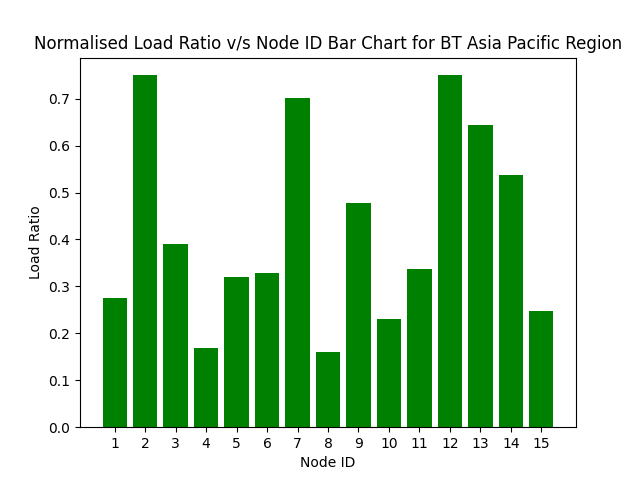
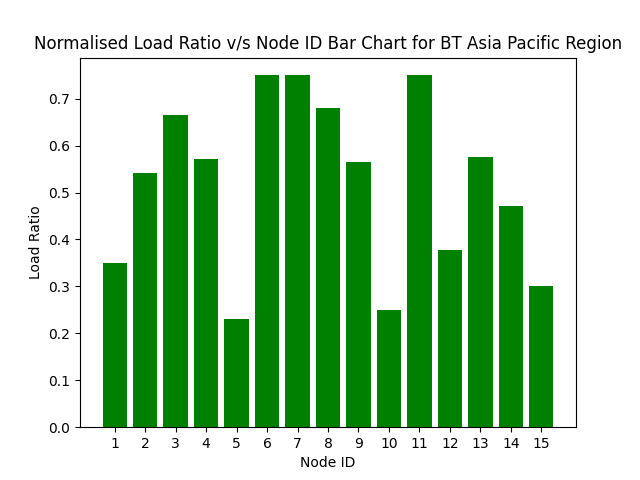
Fine tune & modularise

diff --git a/NodesScript.py b/NodesScript.py
@@ -1,114 +1,36 @@
 """ 
-1) Find Latency (Delay) for each Node. Latency = 2 * distance / speed.
-2) Plot Graph in ascending order.
-3) Clustering: Based on four Quadrants. Assume Midpoint as Origin.
+    Flow of execution:
+    1. Get region details such as nodes, midpoint and region name from Regions.py
+    2. doRegion() function:
+        Plot Latency v/s Node ID Bar Chart
+        Plot Ascending Latency v/s Node ID Bar Chart
+        Plot Latency v/s Quadrant Chart
+        Plot Latency Ratio v/s Node ID Bar Chart
+        Plot Normalised Latency Ratio v/s Node ID Bar Chart
+    3. doLoad() function:
+        Plot Load v/s Node ID Bar Chart
+        Plot Load Ratio v/s Node ID Bar Chart
+        Plot Normalised Load Ratio v/s Node ID Bar Chart
+    4. plotLatencyAndLoad() function:
+        Plot Multi Bar Chart for Latency and Load
+
+    TODO:
+    1. Shortest path from midpoint to all nodes: Apply Bellman Ford algorithm.
+    2. Maximum flow (load) in the network region: Apply Ford Fulkerson Algorithm.
 """
 
 
-import random
 import matplotlib.pyplot as plt
-import math
 import numpy as np
 import os
 
 # Custom Modules
 import Regions
+from Metrics import *
 
 
 # GLOBAL VARIABLES
 GRAPH_NO = 1  # For naming the Graphs
-
-
-def getLowerAndUpper():
-    """Returns the lower and upper limit of the load in mbps.
-
-    Returns:
-        lower (int): Lower limit of the load. (mbps)
-        upper (int): Upper limit of the load. (mbps)
-    """
-
-    lower = random.randint(10, 60)
-    upper = random.randint(100, 400)
-
-    return lower, upper
-
-
-def getQuadrant(long, lat, mid_long, mid_lat):
-    """Returns the quadrant in which the point lies.
-
-    Args:
-        long (float): Longitude of the point.
-        lat (float): Latitude of the point.
-        mid_long (float): Longitude of the midpoint.
-        mid_lat (float): Latitude of the midpoint.
-
-    Returns:
-        quadrant (int): Quadrant in which the point lies.
-    """
-
-    # Origin
-    X = mid_long
-    Y = mid_lat
-
-    # Current Point
-    x = long
-    y = lat
-
-    quadrant = None
-    if x > X and y > Y:
-        quadrant = 1
-    elif x < X and y > Y:
-        quadrant = 2
-    elif x < X and y < Y:
-        quadrant = 3
-    elif x > X and y < Y:
-        quadrant = 4
-
-    return quadrant
-
-
-def getLatency(long, lat, mid_long, mid_lat):
-    """Returns the latency between two points in ms.
-    Formula: Latency = 2*distance / speed
-
-    Args:
-        long (float): Longitude of the first point.
-        lat (float): Latitude of the first point.
-        mid_long (float): Longitude of the second point.
-        mid_lat (float): Latitude of the second point.
-
-    Returns:
-        time (float): Latency between the two points in ms.
-    """
-
-    long_km = long * 111.32 * math.cos(math.radians(lat))
-    lat_km = lat * 110.574
-
-    mid_long_km = mid_long * 111.32 * math.cos(math.radians(mid_lat))
-    mid_lat_km = mid_lat * 110.574
-
-    distance = math.sqrt((long_km - mid_long_km)**2 +
-                         (lat_km - mid_lat_km)**2)     # in km
-
-    speed = 3e5  # in km/s
-
-    time = (2 * distance / speed) * 1000  # in ms
-
-    return time
-
-
-def getLoad(lower, upper):
-    """Returns the load between two points in mbps.
-
-    Args:
-        lower (int): Lower limit of the load. (mbps)
-        upper (int): Upper limit of the load. (mbps)
-
-    Returns:
-        load (int): Load between the two points in mbps.
-    """
-
-    return random.randint(lower, upper)
 
 
 def plotGraph(x, y, x_name, y_name, color, title, region_name):
@@ -234,7 +156,7 @@ def doRegion(nodes, midpoint, region_name):
     node_id_list = [nodes[name]["Node ID"] for name in nodes]
     latency_list = [nodes[name]["Latency"] for name in nodes]
 
-    # Normalizing Latency (0 to 1)
+    # Scaling Latency (0 to 1)
     max_latency = max(latency_list)
     latency_ratio_list = list(map(lambda x: x/max_latency, latency_list))
 
@@ -243,7 +165,7 @@ def doRegion(nodes, midpoint, region_name):
               color="Purple", title=f"Latency Ratio v/s Node ID for {region_name} Region",
               region_name=region_name)
 
-    """ Distributing Latency """
+    """ Distributing Latency (Normalizing) """
 
     threshold = 0.75
     print(f"Threshold Value for Latency: {threshold}")
@@ -260,7 +182,7 @@ def doRegion(nodes, midpoint, region_name):
             least_ratio = min(latency_ratio_list)
             least_ratio_index = latency_ratio_list.index(least_ratio)
 
-            if least_ratio + difference <= 0.75:    # Distributing Load only if Lower Bar after addition is < threshold
+            if least_ratio + difference <= 0.75:  # Distributing Load only if Lower Bar after addition is < threshold
                 ratio -= difference
                 least_ratio += difference
             else:
@@ -322,7 +244,7 @@ def doLoad(nodes, midpoint, region_name):
               color="orange", title=f"Load Ratio v/s Node Name Bar Chart for {region_name} Region",
               region_name=region_name)
 
-    """ Distributing Load """
+    """ Distributing Load (Normalizing) """
 
     threshold = 0.75
     print(f"Threshold Value for Load: {threshold}")

diff --git a/Metrics.py b/Metrics.py
@@ -1,0 +1,106 @@
+"""
+    This file contains the functions to calculate the metrics such as latency, load and
+    the quadrant in which the point lies.
+    
+    Functions included:
+        getLowerAndUpper()
+        getQuadrant(long, lat, mid_long, mid_lat)
+        getLatency(long, lat, mid_long, mid_lat)
+        getLoad(lower, upper)
+"""
+
+
+import random
+import math
+
+
+def getLowerAndUpper():
+    """Returns the lower and upper limit of the load in mbps.
+
+    Returns:
+        lower (int): Lower limit of the load. (mbps)
+        upper (int): Upper limit of the load. (mbps)
+    """
+
+    lower = random.randint(10, 60)
+    upper = random.randint(100, 400)
+
+    return lower, upper
+
+
+def getQuadrant(long, lat, mid_long, mid_lat):
+    """Returns the quadrant in which the point lies.
+
+    Args:
+        long (float): Longitude of the point.
+        lat (float): Latitude of the point.
+        mid_long (float): Longitude of the midpoint.
+        mid_lat (float): Latitude of the midpoint.
+
+    Returns:
+        quadrant (int): Quadrant in which the point lies.
+    """
+
+    # Origin
+    X = mid_long
+    Y = mid_lat
+
+    # Current Point
+    x = long
+    y = lat
+
+    quadrant = None
+    if x > X and y > Y:
+        quadrant = 1
+    elif x < X and y > Y:
+        quadrant = 2
+    elif x < X and y < Y:
+        quadrant = 3
+    elif x > X and y < Y:
+        quadrant = 4
+
+    return quadrant
+
+
+def getLatency(long, lat, mid_long, mid_lat):
+    """Returns the latency between two points in ms.
+    Formula: Latency = 2*distance / speed
+
+    Args:
+        long (float): Longitude of the first point.
+        lat (float): Latitude of the first point.
+        mid_long (float): Longitude of the second point.
+        mid_lat (float): Latitude of the second point.
+
+    Returns:
+        time (float): Latency between the two points in ms.
+    """
+
+    long_km = long * 111.32 * math.cos(math.radians(lat))
+    lat_km = lat * 110.574
+
+    mid_long_km = mid_long * 111.32 * math.cos(math.radians(mid_lat))
+    mid_lat_km = mid_lat * 110.574
+
+    distance = math.sqrt((long_km - mid_long_km)**2 +
+                         (lat_km - mid_lat_km)**2)     # in km
+
+    speed = 3e5  # in km/s
+
+    time = (2 * distance / speed) * 1000  # in ms
+
+    return time
+
+
+def getLoad(lower, upper):
+    """Returns the load between two points in mbps.
+
+    Args:
+        lower (int): Lower limit of the load. (mbps)
+        upper (int): Upper limit of the load. (mbps)
+
+    Returns:
+        load (int): Load between the two points in mbps.
+    """
+
+    return random.randint(lower, upper)
